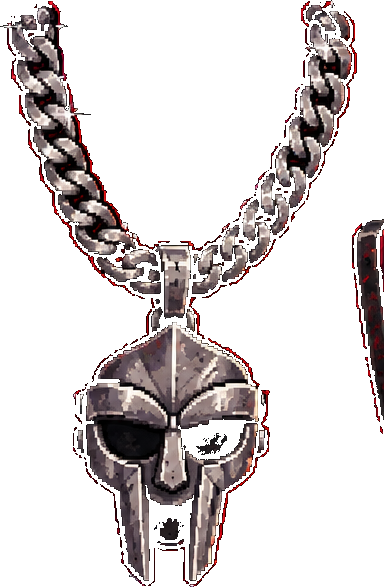
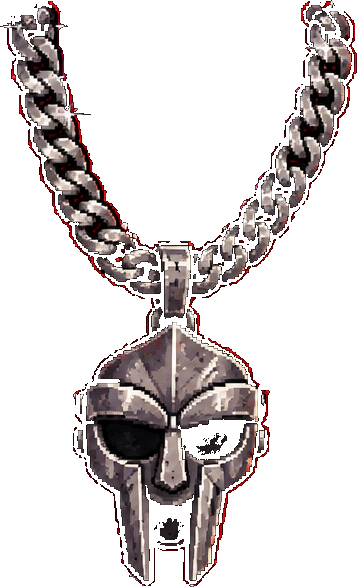
Changes

Changed region(s): [[0.0, 0.0, 1.0, 1.0], [0.9192, 0.368, 1.0, 0.7359]]

diff --git a/public/game.html b/public/game.html
@@ -2000,10 +2000,11 @@ function drawSetPreview(g,set,cv){
        const setPreviewImg=skin.shopImg||skin.img;
        const e=loadSkinImage(setPreviewImg,skin.bgKey);
       if(e.canvas){
-         const sheet=!!skin.frames&&!skin.shopImg;
-        const sw=skin.frameW||(sheet?Math.floor(e.canvas.width/4):e.canvas.width),sh=skin.frameH||(sheet?Math.floor(e.canvas.height/2):e.canvas.height);
-        const sc=Math.min(96/sw,128/sh),dw=Math.round(sw*sc),dh=Math.round(sh*sc);
-        g.drawImage(e.canvas,0,0,sw,sh,4+Math.round((96-dw)/2),18+Math.round((128-dh)/2),dw,dh);
+         const portrait=!!skin.shopImg,sheet=!!skin.frames&&!portrait;
+         const sw=portrait?e.canvas.width:(skin.frameW||(sheet?Math.floor(e.canvas.width/4):e.canvas.width));
+         const sh=portrait?e.canvas.height:(skin.frameH||(sheet?Math.floor(e.canvas.height/2):e.canvas.height));
+         const sc=Math.min(92/sw,134/sh),dw=Math.round(sw*sc),dh=Math.round(sh*sc);
+         g.drawImage(e.canvas,0,0,sw,sh,3+Math.round((92-dw)/2),13+Math.round((134-dh)/2),dw,dh);
       }
     }
     if(weapon){const im=itemImg(weapon.img);if(im)fit(im,98,10,58,58);}

diff --git a/src/routes/index.tsx b/src/routes/index.tsx
@@ -228,7 +228,7 @@ export function Index() {
     const frame = frameRef.current;
     if (!frame) return;
     let cancelled = false;
-    fetch("/game.html?v=warp58", { cache: "no-store" })
+    fetch("/game.html?v=warp59", { cache: "no-store" })
       .then((r) => r.text())
       .then((html) => {
         if (cancelled || !frame) return;
@@ -244,7 +244,7 @@ export function Index() {
       })
       .catch(() => {
         if (!cancelled && frame && !frame.getAttribute("src")) {
-          frame.src = "/game.html?v=warp58";
+          frame.src = "/game.html?v=warp59";
         }
       });
     return () => {
